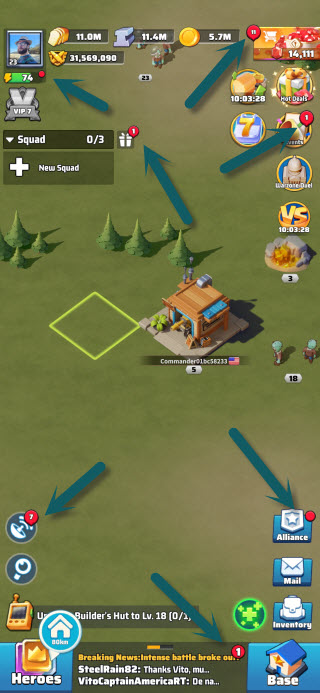
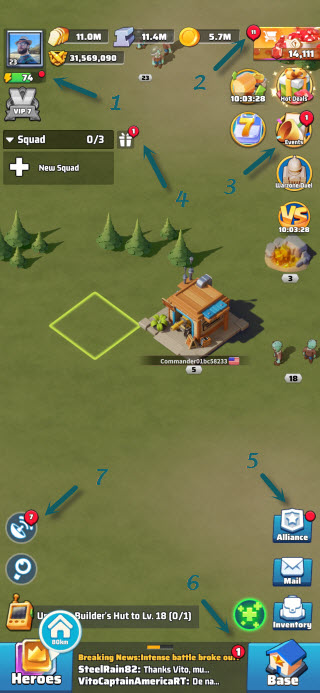
update basics page

diff --git a/guides/basics/index.md b/guides/basics/index.md
@@ -6,4 +6,12 @@ Every Red dot on an icon or button means there is something that requires your a
 
 If you look at the image below each green arrow points at an item that needs attention.
 
-![Items needing attention](./assets/needs_attention.jpg)
+![Items that are needing attention](./assets/needs_attention.jpg)
+
+1. You can claim some extra stamina (available twice per day)
+2. You can get some free diamonds by looking at the available packages for sale
+3. There some action required in an event such as Arms Rrace, Count Master or other.
+4. You have unclaimed rewards from a battle or gathering
+5. You can help alliance, memeber or donate to alliance tech
+6. Unread message in world chat, alliance chat or private message
+7. You have unclaimed radar tasks
